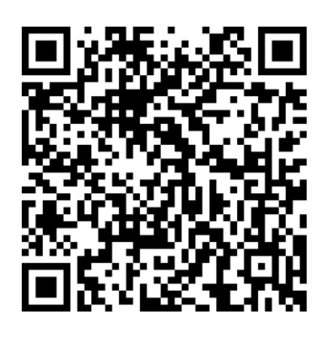
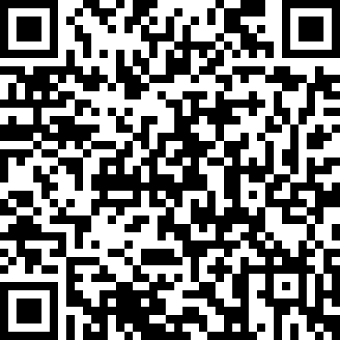
Update key derivation call example

diff --git a/docs/integration/hardware-call.md b/docs/integration/hardware-call.md
@@ -43,7 +43,7 @@ After generating the Key Derivation Call QR code with `KeystoneSDK`, scans the Q
 ### Example
 
 An example of trying to get the Ethereum BIP 44 standard extended public key `m/44'/60'/0'`
-and Solana BIP 44 standard extended public key `m/44'/501'/0'`.
+and Bitcoin BIP 84 standard extended public key `m/84'/0'/0'`.
 
 
 <!-- tabs:start -->
@@ -55,7 +55,7 @@ import KeystoneSDK from "@keystonehq/keystone-sdk";
 import {AnimatedQRCode} from "@keystonehq/animated-qr";
 
 export const KeyDerivationCall = () => {
-    const paths = ["m/44'/60'/0'", "m/44'/501'/0'"];
+    const paths = ["m/44'/60'/0'", "m/84'/0'/0'"];
     const ur = KeystoneSDK.generateKeyDerivationCall({ paths });
     return <AnimatedQRCode type={ur.type} cbor={ur.cbor.toString("hex")}/>
 }
